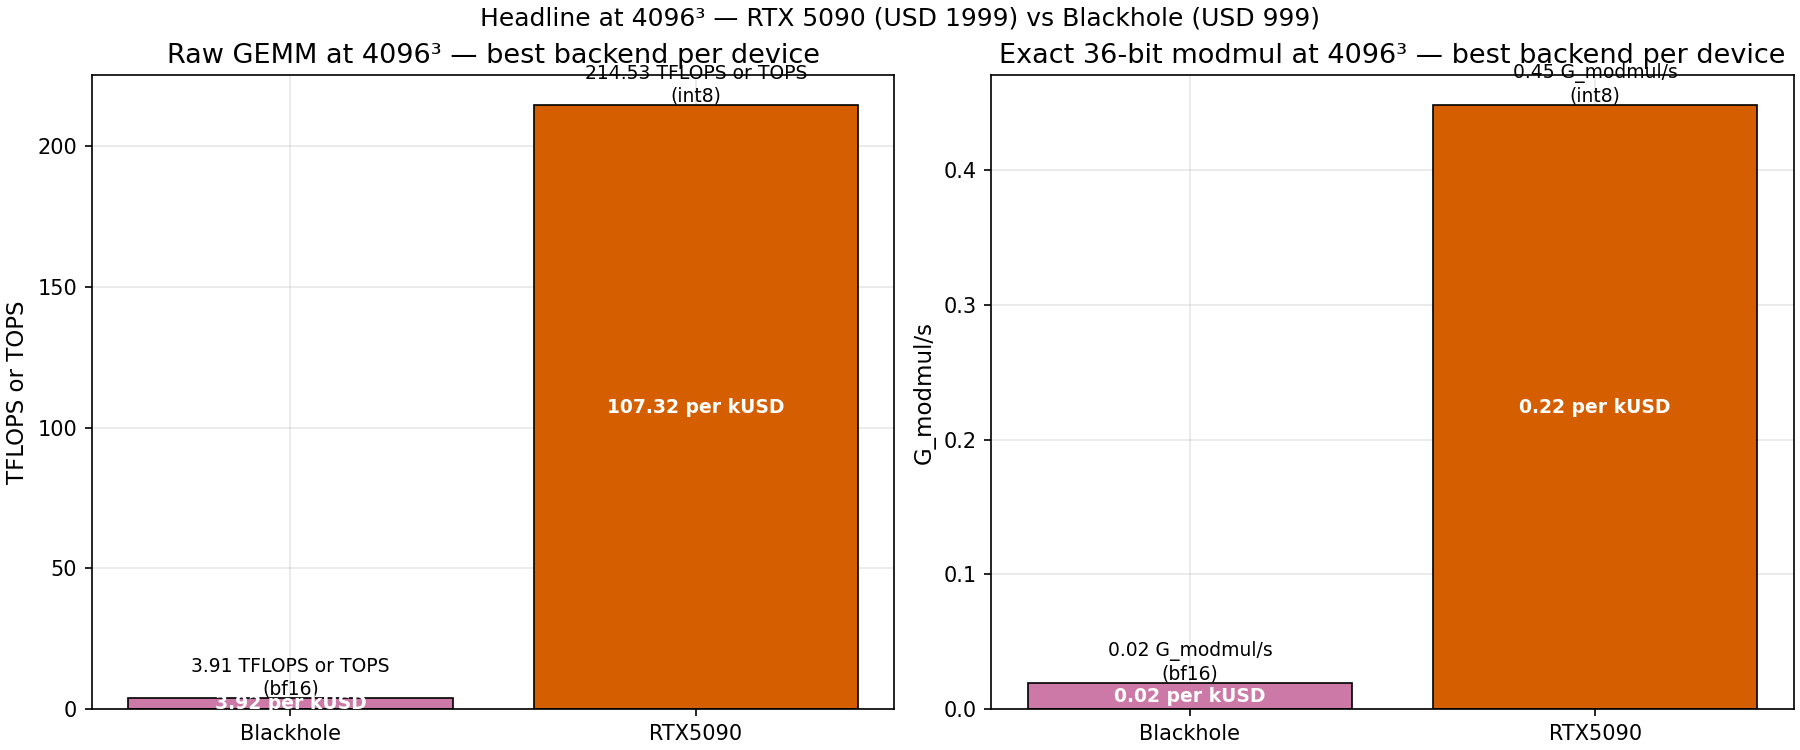
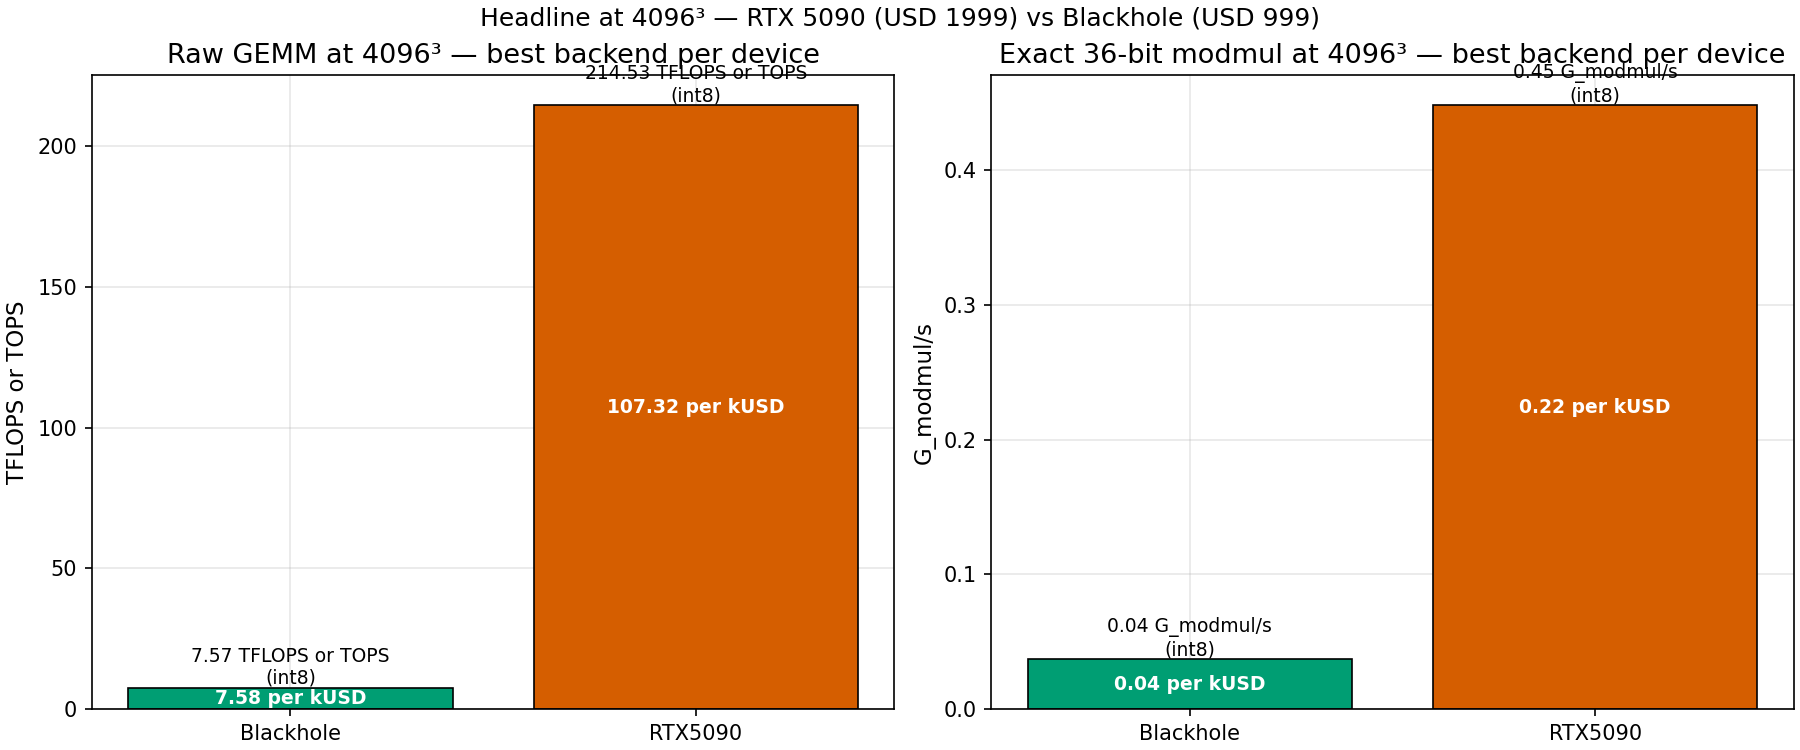
Refresh SUMMARY+plots with TT INT8 numbers
After pulling blackhole_dbe3cc1_int8_20260427.jsonl (TT INT8 path
landed; SFPU FP32 still TODO), regenerate bench-results/SUMMARY.md
and the four PNG plots.

Key changes vs previous summary:

Layer B raw GEMM peak (TOPS):
  RTX5090 INT8 :  214 TOPS  (unchanged)
  Blackhole INT8: 7.6 TOPS (new)  →  ~28x raw, ~14x per dollar
  Blackhole BF16: 3.9 TFLOPS (unchanged)
  Blackhole INT8 ~ 2x BF16, as expected for byte-decomposed workloads.

Layer C exact 36-bit modmul (G_modmul/s) — now both devices use INT8:

  shape  | RTX5090 | Blackhole | RTX/Blk | per-dollar
  -------+---------+-----------+---------+-----------
  512^3  |  0.34   |   0.21    |  1.62x  | 0.81x  ← TT wins per dollar
  1024^3 |  0.84   |   0.14    |  6.21x  | 3.10x
  2048^3 |  0.85   |   0.07    | 11.74x  | 5.87x
  4096^3 |  0.45   |   0.04    | 12.09x  | 6.04x
  8192^3 |  0.33   |   0.02    | 18.04x  | 9.01x

The headline finding is the **crossover at 512^3**: Blackhole INT8
(0.21 G_modmul/s, $999) beats RTX 5090 INT8 (0.34 G_modmul/s, $1999)
per dollar by ~1.24x. Above 1024^3 the gap reverses and RTX wins by
3-9x per dollar. The crossover is now clearly visible in
layer_c_modmul_per_dollar.png.

Practical reading: for FHE workloads dominated by small-tile RNS
multiplications, Blackhole's price advantage offsets its lower raw
INT8 throughput. For large-tile workloads (CKKS bootstrapping at
N=2^14+, KLSS IP at large ring degree), RTX 5090 still dominates
on every metric.
[…]

Changed region(s): [[0.56, 0.828, 0.7778, 0.9507], [0.0622, 0.8587, 0.2489, 0.9507]]

diff --git a/bench-results/SUMMARY.md b/bench-results/SUMMARY.md
@@ -2,9 +2,9 @@
 
 - **Schema version**: 1
 - **Devices**: Blackhole, CPU, RTX5090
-- **Records**: 53
-- **Timestamps**: 2026-04-26T17:45:10+00:00 – 2026-04-26T18:14:34+00:00
-- **Git SHAs**: 7e16b7d, fa2e772
+- **Records**: 76
+- **Timestamps**: 2026-04-26T17:45:10+00:00 – 2026-04-26T19:10:26+00:00
+- **Git SHAs**: 7e16b7d, dbe3cc1, fa2e772
 
 ## Device prices (declared, not detected)
 
@@ -49,58 +49,74 @@ _Side-by-side bar chart at one representative shape._
 
 | op_kind | shape | backend | Blackhole thr | Blackhole /k$ | Blackhole gate | RTX5090 thr | RTX5090 /k$ | RTX5090 gate |
 |---|---|---|---|---|---|---|---|---|
-| gemm_mac | 1024×1024×1024 | bf16 | 3.66 TFLOPS | 3.659 /k$ | skipped | — | — | — |
+| gemm_mac | 1024×1024×1024 | bf16 | 3.65 TFLOPS | 3.658 /k$ | skipped | — | — | — |
 | gemm_mac | 1024×1024×1024 | fp32 | — | — | skipped | 48.19 TFLOPS | 24.109 /k$ | skipped |
 | gemm_mac | 1024×1024×1024 | fp64 | — | — | — | 1.49 TFLOPS | 0.747 /k$ | skipped |
-| gemm_mac | 1024×1024×1024 | int8 | — | — | skipped | 76.35 TOPS | 38.193 /k$ | skipped |
+| gemm_mac | 1024×1024×1024 | int8 | 6.48 TOPS | 6.490 /k$ | skipped | 76.35 TOPS | 38.193 /k$ | skipped |
 | gemm_mac | 1024×1024×1024 | tf32 | — | — | — | 76.87 TFLOPS | 38.455 /k$ | skipped |
 
 **Headline ratios — RTX5090 vs Blackhole, best backend per device** (higher = RTX5090 wins):
 
 | op_kind | shape | RTX5090 best | Blackhole best | RTX5090 / Blackhole | price-adjusted (RTX5090 /k$) / (Blackhole /k$) |
 |---|---|---|---|---|---|
-| gemm_mac | 1024×1024×1024 | tf32 (76.87 TFLOPS) | bf16 (3.66 TFLOPS) | 21.03× | 10.51× |
+| gemm_mac | 1024×1024×1024 | tf32 (76.87 TFLOPS) | int8 (6.48 TOPS) | 11.86× | 5.93× |
+
+**Per-matching-backend ratios — RTX5090 vs Blackhole** (only shown where both devices have the backend implemented):
+
+| op_kind | shape | backend | RTX5090 / Blackhole | price-adjusted (RTX5090 /k$) / (Blackhole /k$) |
+|---|---|---|---|---|
+| gemm_mac | 1024×1024×1024 | int8 | 11.78× | 5.88× |
 
 ## Layer B — raw GEMM
 ### Layer B
 
 | op_kind | shape | backend | Blackhole thr | Blackhole /k$ | Blackhole gate | RTX5090 thr | RTX5090 /k$ | RTX5090 gate |
 |---|---|---|---|---|---|---|---|---|
-| gemm_mac | 512×512×512 | bf16 | 2.48 TFLOPS | 2.486 /k$ | skipped | — | — | — |
+| gemm_mac | 512×512×512 | bf16 | 2.48 TFLOPS | 2.480 /k$ | skipped | — | — | — |
 | gemm_mac | 512×512×512 | fp32 | — | — | skipped | 8.90 TFLOPS | 4.450 /k$ | skipped |
 | gemm_mac | 512×512×512 | fp64 | — | — | — | 1.02 TFLOPS | 0.510 /k$ | skipped |
-| gemm_mac | 512×512×512 | int8 | — | — | skipped | 17.15 TOPS | 8.582 /k$ | skipped |
+| gemm_mac | 512×512×512 | int8 | 3.66 TOPS | 3.666 /k$ | skipped | 17.15 TOPS | 8.582 /k$ | skipped |
 | gemm_mac | 512×512×512 | tf32 | — | — | — | 9.75 TFLOPS | 4.880 /k$ | skipped |
 | gemm_mac | 1024×1024×1024 | bf16 | 3.66 TFLOPS | 3.659 /k$ | skipped | — | — | — |
 | gemm_mac | 1024×1024×1024 | fp32 | — | — | skipped | 48.06 TFLOPS | 24.040 /k$ | skipped |
 | gemm_mac | 1024×1024×1024 | fp64 | — | — | — | 1.45 TFLOPS | 0.727 /k$ | skipped |
-| gemm_mac | 1024×1024×1024 | int8 | — | — | skipped | 76.43 TOPS | 38.236 /k$ | skipped |
+| gemm_mac | 1024×1024×1024 | int8 | 6.48 TOPS | 6.489 /k$ | skipped | 76.43 TOPS | 38.236 /k$ | skipped |
 | gemm_mac | 1024×1024×1024 | tf32 | — | — | — | 76.96 TFLOPS | 38.499 /k$ | skipped |
-| gemm_mac | 2048×2048×2048 | bf16 | 3.84 TFLOPS | 3.847 /k$ | skipped | — | — | — |
+| gemm_mac | 2048×2048×2048 | bf16 | 3.84 TFLOPS | 3.845 /k$ | skipped | — | — | — |
 | gemm_mac | 2048×2048×2048 | fp32 | — | — | skipped | 67.75 TFLOPS | 33.893 /k$ | skipped |
 | gemm_mac | 2048×2048×2048 | fp64 | — | — | — | 1.38 TFLOPS | 0.689 /k$ | skipped |
-| gemm_mac | 2048×2048×2048 | int8 | — | — | skipped | 179.74 TOPS | 89.913 /k$ | skipped |
+| gemm_mac | 2048×2048×2048 | int8 | 7.32 TOPS | 7.331 /k$ | skipped | 179.74 TOPS | 89.913 /k$ | skipped |
 | gemm_mac | 2048×2048×2048 | tf32 | — | — | — | 89.43 TFLOPS | 44.736 /k$ | skipped |
-| gemm_mac | 4096×4096×4096 | bf16 | 3.91 TFLOPS | 3.916 /k$ | skipped | — | — | — |
+| gemm_mac | 4096×4096×4096 | bf16 | 3.91 TFLOPS | 3.914 /k$ | skipped | — | — | — |
 | gemm_mac | 4096×4096×4096 | fp32 | — | — | skipped | 58.57 TFLOPS | 29.299 /k$ | skipped |
 | gemm_mac | 4096×4096×4096 | fp64 | — | — | — | 1.49 TFLOPS | 0.747 /k$ | skipped |
-| gemm_mac | 4096×4096×4096 | int8 | — | — | skipped | 214.53 TOPS | 107.321 /k$ | skipped |
+| gemm_mac | 4096×4096×4096 | int8 | 7.57 TOPS | 7.580 /k$ | skipped | 214.53 TOPS | 107.321 /k$ | skipped |
 | gemm_mac | 4096×4096×4096 | tf32 | — | — | — | 102.59 TFLOPS | 51.319 /k$ | skipped |
-| gemm_mac | 8192×8192×8192 | bf16 | 3.89 TFLOPS | 3.892 /k$ | skipped | — | — | — |
+| gemm_mac | 8192×8192×8192 | bf16 | 3.89 TFLOPS | 3.894 /k$ | skipped | — | — | — |
 | gemm_mac | 8192×8192×8192 | fp32 | — | — | skipped | 61.69 TFLOPS | 30.862 /k$ | skipped |
 | gemm_mac | 8192×8192×8192 | fp64 | — | — | — | 1.58 TFLOPS | 0.792 /k$ | skipped |
-| gemm_mac | 8192×8192×8192 | int8 | — | — | skipped | 210.11 TOPS | 105.105 /k$ | skipped |
+| gemm_mac | 8192×8192×8192 | int8 | 7.39 TOPS | 7.396 /k$ | skipped | 210.11 TOPS | 105.105 /k$ | skipped |
 | gemm_mac | 8192×8192×8192 | tf32 | — | — | — | 100.87 TFLOPS | 50.462 /k$ | skipped |
 
 **Headline ratios — RTX5090 vs Blackhole, best backend per device** (higher = RTX5090 wins):
 
 | op_kind | shape | RTX5090 best | Blackhole best | RTX5090 / Blackhole | price-adjusted (RTX5090 /k$) / (Blackhole /k$) |
 |---|---|---|---|---|---|
-| gemm_mac | 512×512×512 | int8 (17.15 TOPS) | bf16 (2.48 TFLOPS) | 6.91× | 3.45× |
-| gemm_mac | 1024×1024×1024 | tf32 (76.96 TFLOPS) | bf16 (3.66 TFLOPS) | 21.06× | 10.52× |
-| gemm_mac | 2048×2048×2048 | int8 (179.74 TOPS) | bf16 (3.84 TFLOPS) | 46.77× | 23.37× |
-| gemm_mac | 4096×4096×4096 | int8 (214.53 TOPS) | bf16 (3.91 TFLOPS) | 54.83× | 27.40× |
-| gemm_mac | 8192×8192×8192 | int8 (210.11 TOPS) | bf16 (3.89 TFLOPS) | 54.03× | 27.00× |
+| gemm_mac | 512×512×512 | int8 (17.15 TOPS) | int8 (3.66 TOPS) | 4.68× | 2.34× |
+| gemm_mac | 1024×1024×1024 | tf32 (76.96 TFLOPS) | int8 (6.48 TOPS) | 11.87× | 5.93× |
+| gemm_mac | 2048×2048×2048 | int8 (179.74 TOPS) | int8 (7.32 TOPS) | 24.54× | 12.26× |
+| gemm_mac | 4096×4096×4096 | int8 (214.53 TOPS) | int8 (7.57 TOPS) | 28.33× | 14.16× |
+| gemm_mac | 8192×8192×8192 | int8 (210.11 TOPS) | int8 (7.39 TOPS) | 28.44× | 14.21× |
+
+**Per-matching-backend ratios — RTX5090 vs Blackhole** (only shown where both devices have the backend implemented):
+
+| op_kind | shape | backend | RTX5090 / Blackhole | price-adjusted (RTX5090 /k$) / (Blackhole /k$) |
+|---|---|---|---|---|
+| gemm_mac | 512×512×512 | int8 | 4.68× | 2.34× |
+| gemm_mac | 1024×1024×1024 | int8 | 11.79× | 5.89× |
+| gemm_mac | 2048×2048×2048 | int8 | 24.54× | 12.26× |
+| gemm_mac | 4096×4096×4096 | int8 | 28.33× | 14.16× |
+| gemm_mac | 8192×8192×8192 | int8 | 28.44× | 14.21× |
 
 ## Layer C — exact 36-bit modular product
 ### Layer C
@@ -108,26 +124,36 @@ _Side-by-side bar chart at one representative shape._
 | op_kind | shape | backend | Blackhole thr | Blackhole /k$ | Blackhole gate | CPU thr | CPU /k$ | CPU gate | RTX5090 thr | RTX5090 /k$ | RTX5090 gate |
 |---|---|---|---|---|---|---|---|---|---|---|---|
 | exact_modmul | 512×512×512 | bf16 | 0.12 G_modmul/s | 0.123 /k$ | passed | — | — | — | — | — | — |
-| exact_modmul | 512×512×512 | int8 | — | — | — | — | — | — | 0.34 G_modmul/s | 0.169 /k$ | passed |
+| exact_modmul | 512×512×512 | int8 | 0.21 G_modmul/s | 0.208 /k$ | passed | — | — | — | 0.34 G_modmul/s | 0.169 /k$ | passed |
 | exact_modmul | 1024×1024×1024 | bf16 | 0.07 G_modmul/s | 0.074 /k$ | passed | — | — | — | — | — | — |
-| exact_modmul | 1024×1024×1024 | int8 | — | — | — | — | — | — | 0.84 G_modmul/s | 0.422 /k$ | passed |
+| exact_modmul | 1024×1024×1024 | int8 | 0.14 G_modmul/s | 0.136 /k$ | passed | — | — | — | 0.84 G_modmul/s | 0.422 /k$ | passed |
 | exact_modmul | 2048×2048×2048 | bf16 | 0.04 G_modmul/s | 0.038 /k$ | passed | — | — | — | — | — | — |
-| exact_modmul | 2048×2048×2048 | int8 | — | — | — | — | — | — | 0.85 G_modmul/s | 0.426 /k$ | passed |
+| exact_modmul | 2048×2048×2048 | int8 | 0.07 G_modmul/s | 0.073 /k$ | passed | — | — | — | 0.85 G_modmul/s | 0.426 /k$ | passed |
 | exact_modmul | 4096×4096×4096 | bf16 | 0.02 G_modmul/s | 0.019 /k$ | passed | — | — | — | — | — | — |
-| exact_modmul | 4096×4096×4096 | int8 | — | — | — | — | — | — | 0.45 G_modmul/s | 0.224 /k$ | passed |
+| exact_modmul | 4096×4096×4096 | int8 | 0.04 G_modmul/s | 0.037 /k$ | passed | — | — | — | 0.45 G_modmul/s | 0.224 /k$ | passed |
 | exact_modmul | 8192×8192×8192 | bf16 | 0.01 G_modmul/s | 0.010 /k$ | passed | — | — | — | — | — | — |
-| exact_modmul | 8192×8192×8192 | int8 | — | — | — | — | — | — | 0.33 G_modmul/s | 0.163 /k$ | passed |
+| exact_modmul | 8192×8192×8192 | int8 | 0.02 G_modmul/s | 0.018 /k$ | passed | — | — | — | 0.33 G_modmul/s | 0.163 /k$ | passed |
 | exact_modmul | 100000×1×1 | cpu | — | — | — | 0.01 G_modmul/s | — | passed | — | — | — |
 
 **Headline ratios — RTX5090 vs Blackhole, best backend per device** (higher = RTX5090 wins):
 
 | op_kind | shape | RTX5090 best | Blackhole best | RTX5090 / Blackhole | price-adjusted (RTX5090 /k$) / (Blackhole /k$) |
 |---|---|---|---|---|---|
-| exact_modmul | 512×512×512 | int8 (0.34 G_modmul/s) | bf16 (0.12 G_modmul/s) | 2.75× | 1.37× |
-| exact_modmul | 1024×1024×1024 | int8 (0.84 G_modmul/s) | bf16 (0.07 G_modmul/s) | 11.37× | 5.68× |
-| exact_modmul | 2048×2048×2048 | int8 (0.85 G_modmul/s) | bf16 (0.04 G_modmul/s) | 22.52× | 11.25× |
-| exact_modmul | 4096×4096×4096 | int8 (0.45 G_modmul/s) | bf16 (0.02 G_modmul/s) | 23.46× | 11.73× |
-| exact_modmul | 8192×8192×8192 | int8 (0.33 G_modmul/s) | bf16 (0.01 G_modmul/s) | 34.30× | 17.14× |
+| exact_modmul | 512×512×512 | int8 (0.34 G_modmul/s) | int8 (0.21 G_modmul/s) | 1.62× | 0.81× |
+| exact_modmul | 1024×1024×1024 | int8 (0.84 G_modmul/s) | int8 (0.14 G_modmul/s) | 6.21× | 3.10× |
+| exact_modmul | 2048×2048×2048 | int8 (0.85 G_modmul/s) | int8 (0.07 G_modmul/s) | 11.74× | 5.87× |
+| exact_modmul | 4096×4096×4096 | int8 (0.45 G_modmul/s) | int8 (0.04 G_modmul/s) | 12.09× | 6.04× |
+| exact_modmul | 8192×8192×8192 | int8 (0.33 G_modmul/s) | int8 (0.02 G_modmul/s) | 18.04× | 9.01× |
+
+**Per-matching-backend ratios — RTX5090 vs Blackhole** (only shown where both devices have the backend implemented):
+
+| op_kind | shape | backend | RTX5090 / Blackhole | price-adjusted (RTX5090 /k$) / (Blackhole /k$) |
+|---|---|---|---|---|
+| exact_modmul | 512×512×512 | int8 | 1.62× | 0.81× |
+| exact_modmul | 1024×1024×1024 | int8 | 6.21× | 3.10× |
+| exact_modmul | 2048×2048×2048 | int8 | 11.74× | 5.87× |
+| exact_modmul | 4096×4096×4096 | int8 | 12.09× | 6.04× |
+| exact_modmul | 8192×8192×8192 | int8 | 18.04× | 9.01× |
 
 ## How to update
 
